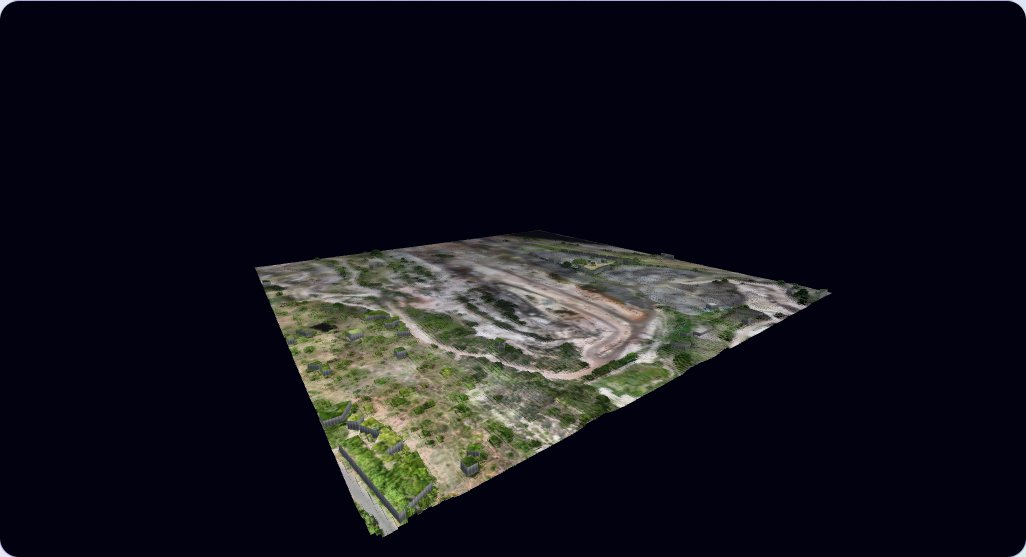
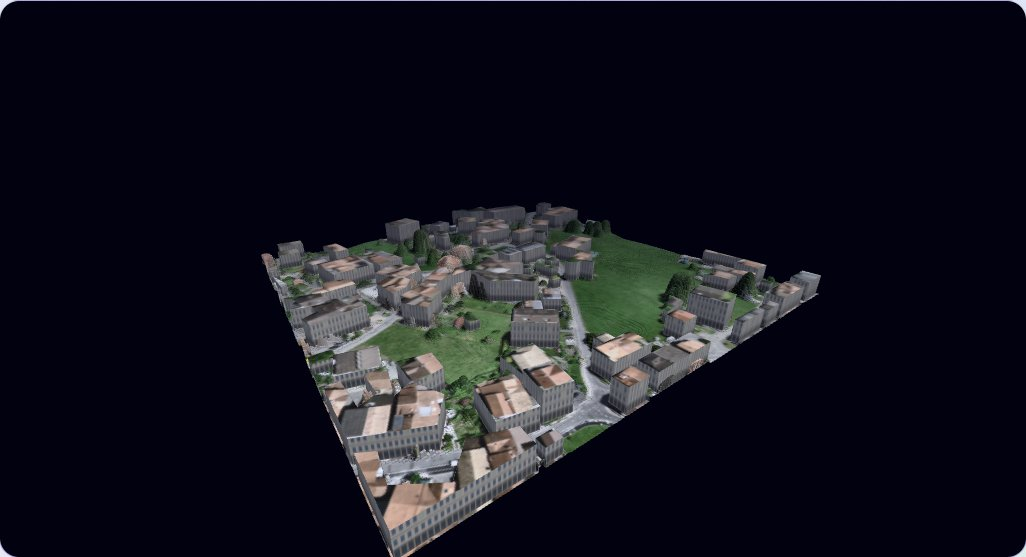
Use the Interlaken scene for README screenshots and add LiDAR validation

Changed region(s): [[0.2495, 0.3662, 0.8109, 1.0]]

diff --git a/README.md b/README.md
@@ -57,11 +57,17 @@ We have implemented these features:
 | Zero-shot Depth Anything V2 + one known height | 5.37 m | 3.45 m | 0.78 | 6.20 | 3.73 | 4.41 | 7.55 |
 | **DepthWizard hybrid, fully automatic** | **4.91 m** | **2.49 m** | **0.84** | 5.06 | 4.08 | 3.20 | 6.18 |
 
+**Example: Interlaken, Switzerland** (swisstopo imagery, 300 m × 300 m at 0.5 m, fully automatic, no height typed in)
+
 <img src="docs/screenshots/input-output.jpg"  width="100%"/>
 
 | 3D Flythrough | Height Layer |
 |---|---|
 | <img src="docs/screenshots/flythrough.jpg"/> | <img src="docs/screenshots/height-layer.jpg"/> |
+
+Checked against swissSURFACE3D LiDAR inside the app: **RMSE 1.41 m, MAE 1.05 m, correlation r = 0.92**, with no adjustment.
+
+<img src="docs/screenshots/validation.jpg"  width="100%"/>
 
 ### Tech Stacks Used :
 ⦿ <b>AI / ML :</b>
@@ -137,6 +143,7 @@ We have implemented these features:
 4. Mou & Zhu, "IM2HEIGHT: Height Estimation from Single Monocular Imagery," 2018. [Link](https://arxiv.org/abs/1802.10249)
 5. He, Sun & Tang, "Guided Image Filtering," IEEE TPAMI 2013. [Link](https://ieeexplore.ieee.org/document/6319316)
 
+Example imagery and reference LiDAR: © swisstopo (SWISSIMAGE, swissSURFACE3D), open government data.
 Demo imagery: 'sadanand' by hareesh via [OpenAerialMap](https://openaerialmap.org/), CC-BY 4.0.
 
 ## Support
